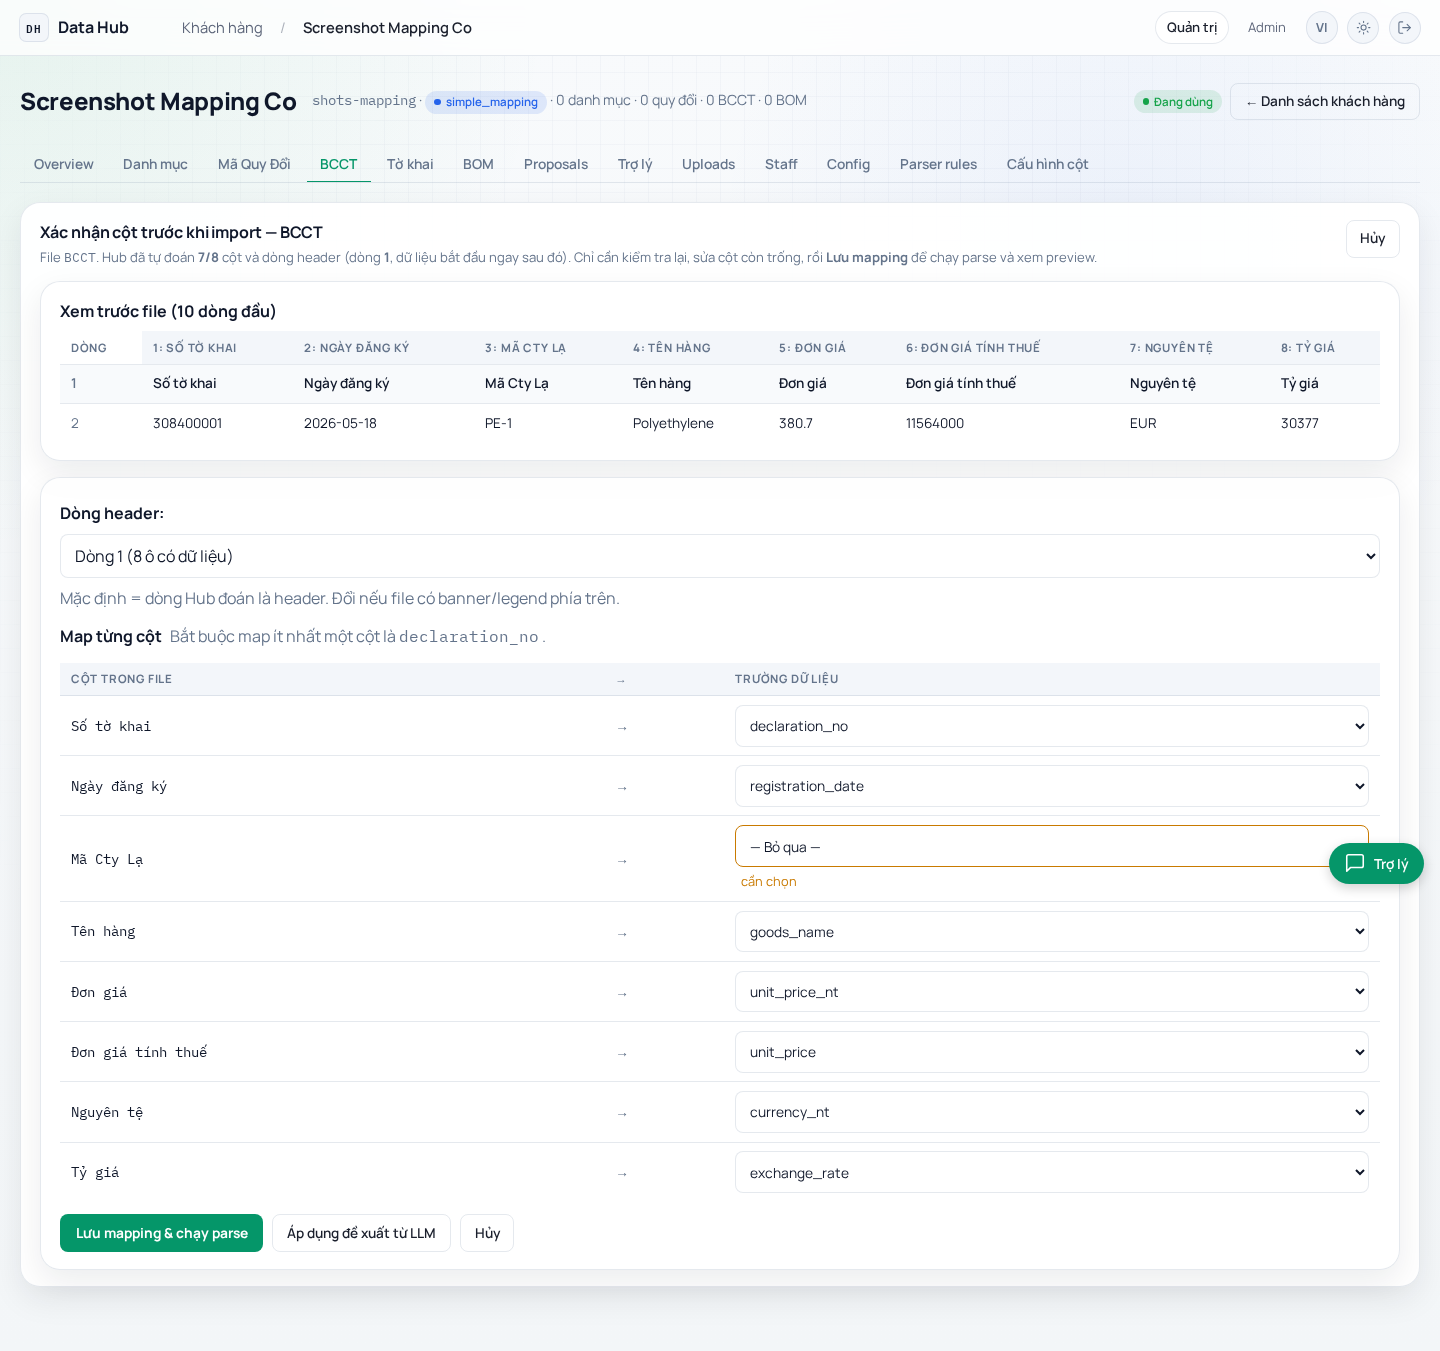
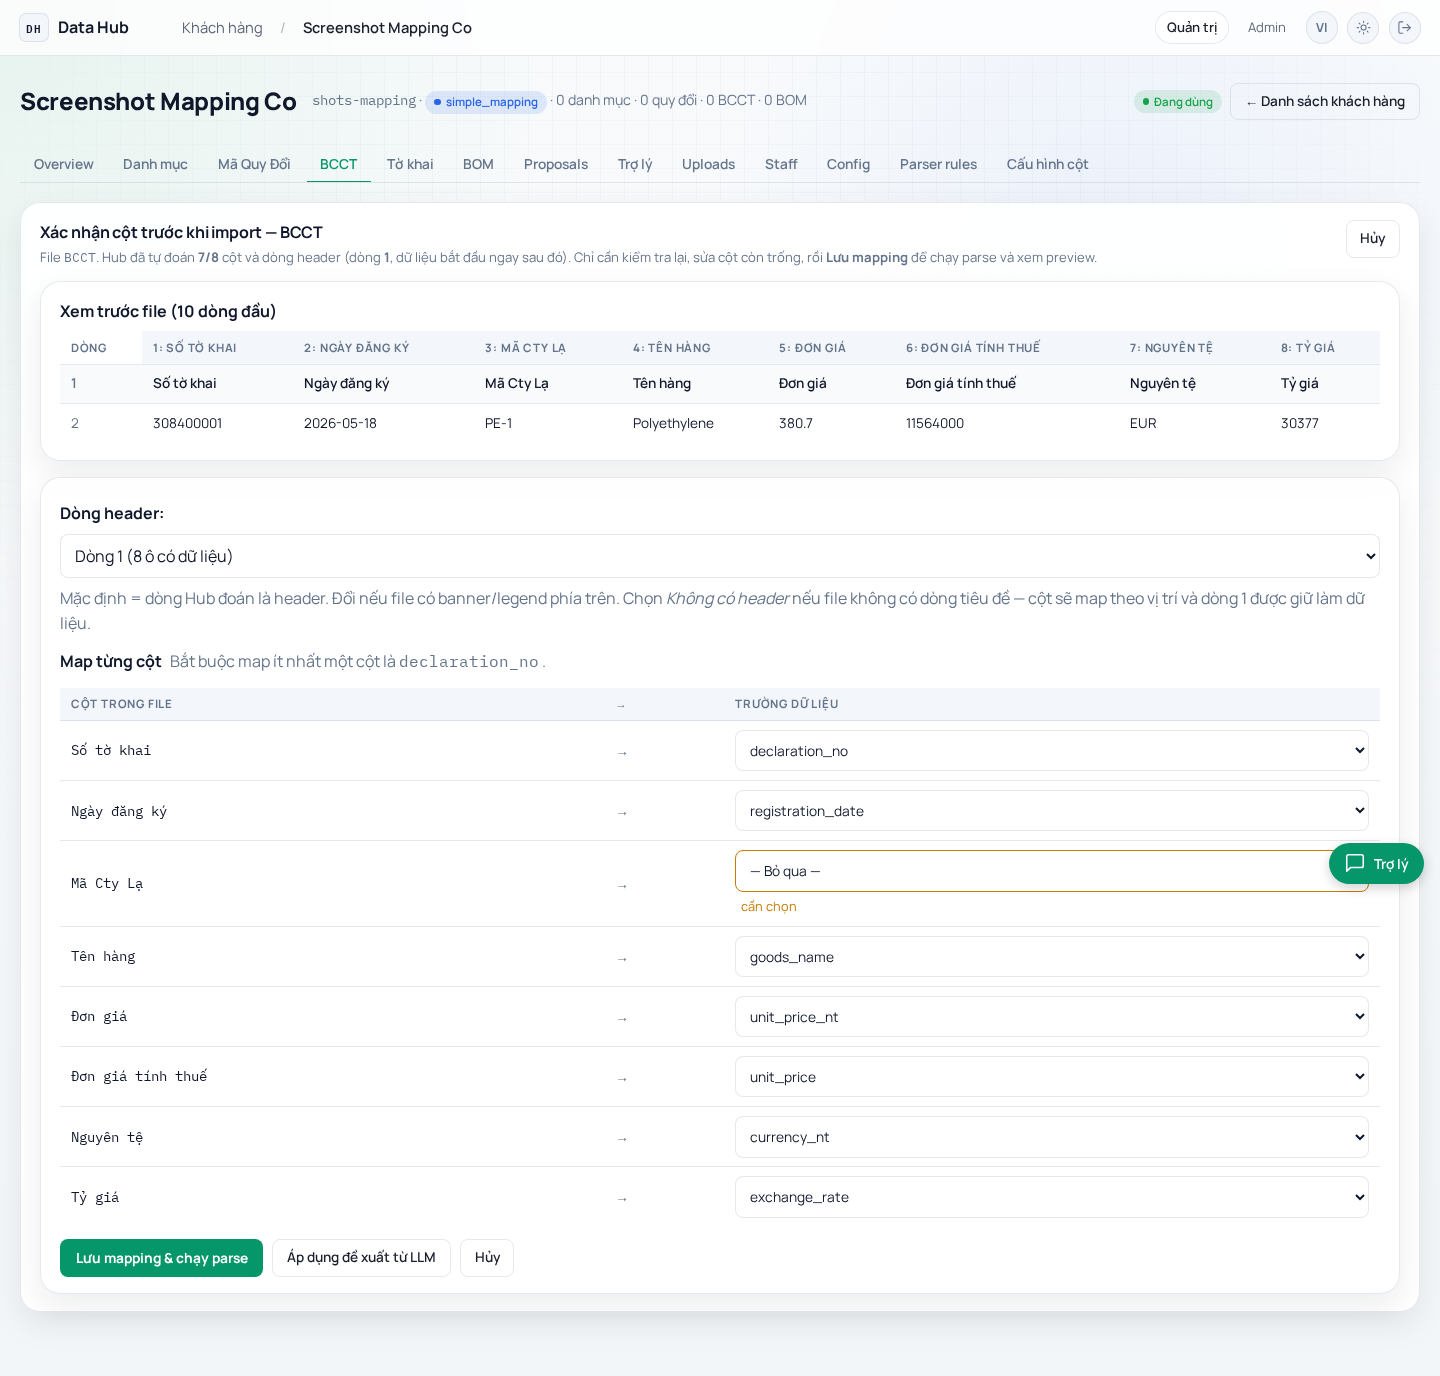
feat(bcct): no-header files via positional column mapping (Phase 5)
Headerless BCCT files previously fell back to treating the first DATA row
as the header, silently losing it. Add positional mode: parser
positional_override maps 0-based column index -> field with data starting
at row 1 (no row consumed as header); the mapping-page header-row picker
gains a '— Không có header (dữ liệu từ dòng 1) —' option (value 0) that the
parse route turns into a positional parse, skipping the per-shape cache
(headerless files have no stable signature).

Tests: parser positional (keep all rows, skip identifierless) + end-to-end
no-header upload->parse->preview keeps all rows. Screenshot 06 added.

diff --git a/app/templates/clients/_upload_mapping.html b/app/templates/clients/_upload_mapping.html
@@ -65,8 +65,11 @@
           Dòng {{ r_no }} ({{ n_filled }} ô có dữ liệu)
         </option>
         {% endfor %}
+        <option value="0">— Không có header (dữ liệu từ dòng 1) —</option>
       </select>
-      <span class="meta">Mặc định = dòng Hub đoán là header. Đổi nếu file có banner/legend phía trên.</span>
+      <span class="meta">Mặc định = dòng Hub đoán là header. Đổi nếu file có
+        banner/legend phía trên. Chọn <em>Không có header</em> nếu file không
+        có dòng tiêu đề — cột sẽ map theo vị trí và dòng 1 được giữ làm dữ liệu.</span>
     </div>
 
     <div class="form-row">

diff --git a/app/routes/bcct.py b/app/routes/bcct.py
@@ -366,72 +366,94 @@ async def mapping_parse(request: Request, client_id: str, upload_id: str):
         raise HTTPException(404, "Client not found")
     blob, file_signature, _extra = _load_unmapped(upload_id, module="bcct")
     form = await request.form()
-
-    column_map: dict[str, str] = {}
-    for key, value in form.items():
-        if key.startswith("col_") and key.endswith("__field"):
-            idx = key[len("col_"):-len("__field")]
-            field = (value or "").strip()
-            if not field:
-                continue
-            header_value = (form.get(f"col_{idx}__header") or "").strip()
-            if header_value:
-                column_map[header_value] = field
-
-    mapped_logical = set(column_map.values())
-    missing_mapped = BCCT_REQUIRED_MAPPED - mapped_logical
-    if missing_mapped:
-        raise HTTPException(
-            400,
-            "Thiếu mapping cho các trường bắt buộc: " +
-            ", ".join(sorted(missing_mapped)),
-        )
-
     header_row_override_str = (form.get("header_row_override") or "").strip()
-    header_row_override = (
-        int(header_row_override_str) if header_row_override_str.isdigit() else None
-    )
+    # Sentinel "0" from the header-row picker = file has NO header row.
+    no_header = header_row_override_str == "0"
     extra_required_str = (form.get("extra_required_fields") or "").strip()
     extra_required = (
         [s.strip() for s in extra_required_str.split(",") if s.strip()]
         if extra_required_str else None
     )
 
-    try:
-        rows, _skipped = parse_bcct_workbook(
-            blob, mapping_override=column_map,
-            header_row_override=header_row_override,
-            extra_required_fields=extra_required,
-            return_skipped=True,
-        )
-    except BcctParseError as e:
-        raise HTTPException(400, f"Parse error: {e}") from e
+    def _missing_required(mapped: set[str]) -> None:
+        missing = BCCT_REQUIRED_MAPPED - mapped
+        if missing:
+            raise HTTPException(
+                400,
+                "Thiếu mapping cho các trường bắt buộc: " +
+                ", ".join(sorted(missing)),
+            )
 
-    # Persist this confirmed mapping to the cache so the next upload of
-    # the same shape skips the mapping page.
-    try:
-        if file_signature:
-            with connect() as conn, conn.cursor() as cur:
-                cur.execute(
-                    """
-                    insert into hub.parser_mappings
-                      (client_id, module, file_signature, mapping, sample_headers,
-                       proposed_by, confirmed_by, confirmed_at)
-                    values (%s, 'bcct', %s, %s::jsonb, %s::jsonb,
-                            'manual', %s, now())
-                    on conflict (client_id, module, file_signature) do update set
-                      mapping = excluded.mapping,
-                      proposed_by = excluded.proposed_by,
-                      confirmed_by = excluded.confirmed_by,
-                      confirmed_at = excluded.confirmed_at
-                    """,
-                    (client_id, file_signature,
-                     json.dumps(column_map, ensure_ascii=False),
-                     json.dumps(list(column_map.keys()), ensure_ascii=False),
-                     user.user_id),
-                )
-    except Exception:  # noqa: BLE001 — cache write is best-effort
-        pass
+    if no_header:
+        # No header row → map by 0-based column position; data from row 1
+        # (the first data row is NOT consumed as a header). Headerless files
+        # have no stable per-shape signature, so the cache is skipped.
+        positional: dict[int, str] = {}
+        for key, value in form.items():
+            if key.startswith("col_") and key.endswith("__field"):
+                idx = key[len("col_"):-len("__field")]
+                field = (value or "").strip()
+                if field and idx.isdigit():
+                    positional[int(idx)] = field
+        _missing_required(set(positional.values()))
+        try:
+            rows, _skipped = parse_bcct_workbook(
+                blob, positional_override=positional,
+                extra_required_fields=extra_required, return_skipped=True,
+            )
+        except BcctParseError as e:
+            raise HTTPException(400, f"Parse error: {e}") from e
+    else:
+        column_map: dict[str, str] = {}
+        for key, value in form.items():
+            if key.startswith("col_") and key.endswith("__field"):
+                idx = key[len("col_"):-len("__field")]
+                field = (value or "").strip()
+                if not field:
+                    continue
+                header_value = (form.get(f"col_{idx}__header") or "").strip()
+                if header_value:
+                    column_map[header_value] = field
+        _missing_required(set(column_map.values()))
+
+        header_row_override = (
+            int(header_row_override_str) if header_row_override_str.isdigit() else None
+        )
+        try:
+            rows, _skipped = parse_bcct_workbook(
+                blob, mapping_override=column_map,
+                header_row_override=header_row_override,
+                extra_required_fields=extra_required,
+                return_skipped=True,
+            )
+        except BcctParseError as e:
+            raise HTTPException(400, f"Parse error: {e}") from e
+
+        # Persist this confirmed mapping to the cache so the next upload of
+        # the same shape skips the mapping page.
+        try:
+            if file_signature:
+                with connect() as conn, conn.cursor() as cur:
+                    cur.execute(
+                        """
+                        insert into hub.parser_mappings
+                          (client_id, module, file_signature, mapping, sample_headers,
+                           proposed_by, confirmed_by, confirmed_at)
+                        values (%s, 'bcct', %s, %s::jsonb, %s::jsonb,
+                                'manual', %s, now())
+                        on conflict (client_id, module, file_signature) do update set
+                          mapping = excluded.mapping,
+                          proposed_by = excluded.proposed_by,
+                          confirmed_by = excluded.confirmed_by,
+                          confirmed_at = excluded.confirmed_at
+                        """,
+                        (client_id, file_signature,
+                         json.dumps(column_map, ensure_ascii=False),
+                         json.dumps(list(column_map.keys()), ensure_ascii=False),
+                         user.user_id),
+                    )
+        except Exception:  # noqa: BLE001 — cache write is best-effort
+            pass
 
     # Mark file_uploads as parsed (clears mapping_pending status from
     # _stash_unmapped) and route into the existing classify pipeline.

diff --git a/tests/test_bcct_no_header.py b/tests/test_bcct_no_header.py
@@ -1,0 +1,111 @@
+"""Phase 5: no-header BCCT files via positional (column-index) mapping.
+
+A headerless file must keep ALL rows as data — the first data row is no
+longer consumed as a header.
+"""
+from __future__ import annotations
+
+import io
+
+from openpyxl import Workbook
+
+from app.parsers.bcct import parse_bcct_workbook
+
+
+def _xlsx(rows):
+    wb = Workbook(); ws = wb.active; ws.title = "BCCT"
+    for r in rows:
+        ws.append(r)
+    buf = io.BytesIO(); wb.save(buf); return buf.getvalue()
+
+
+_POSITIONAL = {
+    0: "declaration_no", 1: "line_no", 2: "declaration_type",
+    3: "registration_date", 4: "customs_code", 5: "goods_name",
+    6: "quantity", 7: "unit", 8: "total_value", 9: "currency_nt",
+}
+
+
+def test_positional_keeps_all_rows_no_header_consumed():
+    blob = _xlsx([
+        ("308400001", "1", "E11", "2026-05-18", "PE-1", "Poly", "100", "kg", "250", "USD"),
+        ("308400002", "1", "E11", "2026-05-18", "PE-2", "PP", "80", "kg", "200", "USD"),
+        ("308400003", "1", "E11", "2026-05-18", "PE-3", "PVC", "60", "kg", "150", "USD"),
+    ])
+    rows = parse_bcct_workbook(blob, positional_override=_POSITIONAL)
+    # all 3 data rows kept (none consumed as header)
+    assert len(rows) == 3
+    decls = {r["declaration_no"] for r in rows}
+    assert decls == {"308400001", "308400002", "308400003"}
+    r0 = next(r for r in rows if r["declaration_no"] == "308400001")
+    assert r0["customs_code"] == "PE-1"
+    assert r0["registration_date"].isoformat() == "2026-05-18"
+    assert float(r0["quantity"]) == 100.0
+
+
+def test_no_header_flow_keeps_all_rows(tmp_path, monkeypatch):
+    import re
+    import pytest
+    from fastapi.testclient import TestClient
+    from app.auth.session import create_session, hash_password, SESSION_COOKIE
+    from app.database import connect
+    from app.main import app
+
+    monkeypatch.setenv("DATA_HUB_FILES_ROOT", str(tmp_path / "files"))
+    import app.storage as storage_mod
+    storage_mod._BACKEND = None
+
+    cid, uid = "noheader-route", "u_noheader_route"
+    with connect() as conn, conn.cursor() as cur:
+        cur.execute("insert into hub.clients (client_id,name) values (%s,'x') "
+                    "on conflict do nothing", (cid,))
+        cur.execute(
+            "insert into hub.users (user_id,email,display_name,password_hash,role,status) "
+            "values (%s,'noheader@t.local','N',%s,'admin','active') "
+            "on conflict (user_id) do update set role='admin',status='active'",
+            (uid, hash_password("pw")))
+    try:
+        c = TestClient(app)
+        c.cookies.set(SESSION_COOKIE, create_session(uid))
+        blob = _xlsx([
+            ("308400001", "1", "E11", "2026-05-18", "PE-1", "Poly", "100", "kg", "250", "USD"),
+            ("308400002", "1", "E11", "2026-05-18", "PE-2", "PP", "80", "kg", "200", "USD"),
+        ])
+        up = c.post(f"/clients/{cid}/bcct/upload",
+                    files={"file": ("t.xlsx", blob, "application/vnd.openxmlformats-officedocument.spreadsheetml.sheet")},
+                    follow_redirects=False)
+        assert "/upload/mapping/" in up.headers["location"]
+        upload_id = re.search(r"/upload/mapping/([^/?]+)", up.headers["location"]).group(1)
+        data = {"header_row_override": "0", "extra_required_fields": ""}
+        for i, f in _POSITIONAL.items():
+            data[f"col_{i}__field"] = f
+        pr = c.post(f"/clients/{cid}/bcct/upload/mapping/{upload_id}/parse",
+                    data=data, follow_redirects=False)
+        assert pr.status_code == 303, pr.text
+        assert "/upload/preview/" in pr.headers["location"]
+        pid = pr.headers["location"].rsplit("/", 1)[-1]
+        with connect() as conn, conn.cursor() as cur:
+            cur.execute("select parsed_rows from hub.upload_pending where pending_id=%s", (pid,))
+            parsed = cur.fetchone()[0]
+        # both rows kept — first data row NOT consumed as header
+        assert len(parsed) == 2
+        assert {r["declaration_no"] for r in parsed} == {"308400001", "308400002"}
+    finally:
+        with connect() as conn, conn.cursor() as cur:
+            for t in ("bcct_rows", "upload_pending", "file_uploads"):
+                cur.execute(f"delete from hub.{t} where client_id=%s", (cid,))
+            cur.execute("delete from hub.sessions where user_id=%s", (uid,))
+            cur.execute("delete from hub.clients where client_id=%s", (cid,))
+            cur.execute("delete from hub.users where user_id=%s", (uid,))
+
+
+def test_positional_skips_identifierless_row():
+    # A row with no declaration_no AND no customs_code is skipped, not parsed.
+    blob = _xlsx([
+        ("308400001", "1", "E11", "2026-05-18", "PE-1", "Poly", "100", "kg", "250", "USD"),
+        ("", "1", "E11", "2026-05-18", "", "blank-ids", "5", "kg", "9", "USD"),
+    ])
+    rows, skipped = parse_bcct_workbook(
+        blob, positional_override=_POSITIONAL, return_skipped=True)
+    assert len(rows) == 1 and rows[0]["declaration_no"] == "308400001"
+    assert len(skipped) == 1

diff --git a/app/parsers/bcct.py b/app/parsers/bcct.py
@@ -158,6 +158,7 @@ def parse_bcct_workbook(
     *,
     mapping_override: dict[str, str] | None = None,
     header_row_override: int | None = None,
+    positional_override: dict[int, str] | None = None,
     extra_required_fields: list[str] | None = None,
     return_skipped: bool = False,
 ):
@@ -167,6 +168,10 @@ def parse_bcct_workbook(
     the rigid alias-based discovery.
     `header_row_override`: 1-indexed row to treat as the header row
     (slice-4 flexible-flow override).
+    `positional_override`: optional dict[0-based col index → logical_field]
+    for files with NO header row — data starts at sheet row 1 and columns
+    are mapped by position, so no data row is consumed as a header. Takes
+    precedence over `mapping_override`/`header_row_override`.
     `extra_required_fields`: rows missing any of these go to skipped_rows[].
     `return_skipped`: when True, returns `(rows, skipped_rows)` tuple
     (slice-4 flexible-flow contract). Default False keeps backward-compat
@@ -182,19 +187,27 @@ def parse_bcct_workbook(
     any_sheet_had_required_cols = False
 
     for ws in wb.worksheets:
-        if header_row_override is not None:
-            header_idx, headers = _read_header_at_row(ws, header_row_override)
-            if not headers:
-                continue
+        if positional_override is not None:
+            # No header row: data starts at sheet row 1; columns mapped by
+            # 0-based position so no data row is consumed as a header.
+            n_cols = (max(positional_override) + 1) if positional_override else 0
+            headers = [f"Cột {i + 1}" for i in range(n_cols)]
+            header_idx = 0
+            cols = {field: idx for idx, field in positional_override.items()}
         else:
-            hdr = header_row(ws, aliases=ALIASES, max_scan=20)
-            if not hdr:
-                continue
-            header_idx, headers = hdr
-        if mapping_override:
-            cols = _cols_from_mapping(headers, mapping_override)
-        else:
-            cols = index_headers(headers, ALIASES)
+            if header_row_override is not None:
+                header_idx, headers = _read_header_at_row(ws, header_row_override)
+                if not headers:
+                    continue
+            else:
+                hdr = header_row(ws, aliases=ALIASES, max_scan=20)
+                if not hdr:
+                    continue
+                header_idx, headers = hdr
+            if mapping_override:
+                cols = _cols_from_mapping(headers, mapping_override)
+            else:
+                cols = index_headers(headers, ALIASES)
         # BCCT requires both declaration_no (Số tờ khai) AND a date column. BOM
         # files have neither; settlement workbooks (RVC/LVC summary sheets) may
         # cite a declaration_no but lack the date, so the AND keeps them out.

diff --git a/scripts/screenshot_bcct_mapping_flow.py b/scripts/screenshot_bcct_mapping_flow.py
@@ -135,8 +135,16 @@ async def main():
         ("308400002", 1, "E11", "2026-05-18", "PE-CLEAN", "Polyethylene",
          100.0, "kg", 250.0, "USD"),
     ]))
+    # Headerless file → mapping page exposes the "Không có header" option.
+    noheader_url = _upload_get_location(sid, _xlsx([
+        ("308400001", "1", "E11", "2026-05-18", "PE-1", "Polyethylene",
+         "100", "kg", "250", "USD"),
+        ("308400002", "1", "E11", "2026-05-18", "PE-2", "PP resin",
+         "80", "kg", "200", "USD"),
+    ]))
     print("  mapping_url ->", mapping_url)
     print("  preview_url ->", preview_url)
+    print("  noheader_url ->", noheader_url)
     try:
         async with async_playwright() as p:
             browser = await p.chromium.launch(headless=True)
@@ -161,6 +169,10 @@ async def main():
 
             await page.goto(f"{BASE}/clients/{CLIENT}/column-aliases?module=bcct")
             await _shot(page, "05_column_aliases")
+
+            await page.goto(f"{BASE}{noheader_url}")
+            # open the header-row picker so the "Không có header" option shows
+            await _shot(page, "06_no_header_mapping")
 
             await browser.close()
     finally:

diff --git a/.ai/features/2026-06-05-bcct-mapping-flow-overhaul/brief.md b/.ai/features/2026-06-05-bcct-mapping-flow-overhaul/brief.md
@@ -3,9 +3,15 @@
 Status: ALL PHASES SHIPPED (2026-06-05). Phase 0 hotfix (cache fix +
 pending discard, dev DB) · Phase 2 anomaly net `f58c42a` · Phase 1
 auto-map `81adc4b` · Phase 4 LLM prompt `834ac99` · Phase 3 per-client
-column config + admin UI + mig 075 `21f2a23`. Full suite 1333 passed.
-Not yet deployed to prod; mapping-page UX fix (_upload_mapping.html) still
-pending user eyeball on dev.
+column config + admin UI + mig 075 `21f2a23` · screenshots `121c0a4` ·
+Phase 5 no-header positional mapping (this commit). Full suite 1336 passed.
+Not yet deployed to prod.
+
+Phase 5 (no-header files): parser `positional_override` (0-based col index
+→ field, data from row 1, no row consumed as header); mapping page picker
+gains a "— Không có header —" option (value 0) → route maps by column
+position and skips the per-shape cache. Solves the headerless case where
+the first data row was previously eaten as a header (1 of N rows lost).
 
 ## Problem / incident
 
